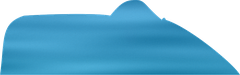
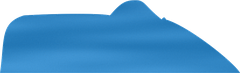
冰山更分散(宽80-130+纵向拉开+抖动减小)+极小幅轻摇(±0.7deg/3rpx,7s,错相);颜色模型:最新=橙,今天=红且随新内容增多红→蓝漂移(mix33/mix66),昨天=蓝逐日加深(blue1→blue3→deep);新增7色×3形slab资产

diff --git a/miniprogram/utils/sea.js b/miniprogram/utils/sea.js
@@ -107,60 +107,67 @@ function lerpHex (h1, h2, t) {
   return '#' + [0, 1, 2].map((i) => lerp(a[i], b[i], t).toString(16).padStart(2, '0')).join('')
 }
 // 雪山素材=用户定稿SVG的真实云slab（含纹理/颗粒）；今天=红，随天数沉淀到深蓝
-function slabFor (createdAt) {
-  const days = Math.floor((Date.now() - (createdAt || Date.now())) / 86400000)
-  if (days <= 0) return 'red'        // 今天最新=红slab
-  if (days <= 2) return 'blue1'      // 浅蓝
-  if (days <= 4) return 'blue3'      // 中蓝
-  return 'deep'                      // 5天+ 最深蓝
-}
-// seeded rng（同背景生成器 mjs）：每座山宽/高/包包形态稳定随机
-function mulberry (a) {
-  return function () {
-    a |= 0; a = (a + 0x6D2B79F5) | 0
-    let t = Math.imul(a ^ (a >>> 15), 1 | a)
-    t = (t + Math.imul(t ^ (t >>> 7), 61 | t)) ^ t
-    return ((t ^ (t >>> 14)) >>> 0) / 4294967296
+// 颜色模型：最新=橙；今天=红，随更新内容增多红→蓝漂移；昨天=蓝，逐日加深
+function slabColor (createdAt, newest, todayList, dayStart) {
+  const c = createdAt || 0
+  if (c === newest) return 'orange'
+  if (c >= dayStart) {
+    const newer = todayList.filter((x) => (x.createdAt || 0) > c).length
+    const t = newer / Math.max(1, todayList.length)
+    if (t < 0.25) return 'red'
+    if (t < 0.5) return 'mix33'
+    if (t < 0.75) return 'mix66'
+    return 'blue1'
   }
+  const days = Math.floor((dayStart - c) / 86400000) + 1
+  if (days <= 1) return 'blue1'
+  if (days <= 3) return 'blue3'
+  return 'deep'
 }
-// 一个年代=一屏宽；山在海上密排；小船与最新生成的山在一起
 function layoutMountains (icebergs, H, W, birthYear) {
   const list = (icebergs || []).slice()
   const stages = life.getStages()
   const eraOf = (b) => {
     const z = stageOfMemory(b, birthYear)
-    const i = stages.findIndex((s) => s.name === z.name || s.key === z.key)
+    const i = stages.findIndex((x) => x.name === z.name || x.key === z.key)
     return i < 0 ? stages.length : i
   }
   const groups = {}
   list.forEach((b) => { const e = eraOf(b); (groups[e] = groups[e] || []).push(b) })
-  // 每片海(含空海)都占一屏 → 新加的节点海左右滑能看到
   const worldWidth = Math.max(W, stages.length * W)
-  const labels = stages.map((s, ei) => ({ left: Math.round(ei * W + W / 2), name: s.name }))
+  const labels = stages.map((x, ei) => ({ left: Math.round(ei * W + W / 2), name: x.name }))
+  const d0 = new Date(); d0.setHours(0, 0, 0, 0)
+  const dayStart = d0.getTime()
+  const newest = list.reduce((m, b) => Math.max(m, b.createdAt || 0), 0)
+  const todayList = list.filter((b) => (b.createdAt || 0) >= dayStart)
   const mountains = []
-  stages.forEach((s, ei) => {
+  stages.forEach((x, ei) => {
     const g = (groups[ei] || []).sort((a, b) => (a.createdAt || 0) - (b.createdAt || 0))
     g.forEach((b, i) => {
       const rng = mulberry(hash(b._id || String(i)) + 7)
       const len = (b.text || '').length
-      const width = Math.round(90 + rng() * 70)                                        // 密排 90–160
-      const height = Math.round((50 + Math.min(130, len * 0.45)) * (0.85 + rng() * 0.4)) // 内容越多越高
+      const width = Math.round(80 + rng() * 50)                                       // 更小更分散
+      const height = Math.round((50 + Math.min(130, len * 0.45)) * (0.85 + rng() * 0.4))
       const variant = Math.floor(rng() * 3)
-      // 均匀铺开+轻微抖动，不堆挤
       const slot = (i + 0.5) / g.length
-      const x = ei * W + slot * (W - width) + (rng() - 0.5) * 30
-      const bottom = Math.round(H * (0.34 + ((i * 0.61 + 0.29) % 1) * 0.26))   // 往上靠，不挤底部
+      const xx = ei * W + slot * (W - width) + (rng() - 0.5) * 16
+      const bottom = Math.round(H * (0.28 + ((i * 0.61 + 0.29) % 1) * 0.36))          // 纵向拉开
       mountains.push({
-        id: b._id, left: Math.round(x), width, height, bottom,
+        id: b._id, left: Math.round(xx), width, height, bottom,
+        delay: ((i % 5) * 0.8).toFixed(1),
         createdAt: b.createdAt || 0,
-        src: '/images/ocean/slab_' + slabFor(b.createdAt) + '_v' + variant + '.png'
+        src: '/images/ocean/slab_' + slabColor(b.createdAt, newest, todayList, dayStart) + '_v' + variant + '.png'
       })
     })
   })
-  let newest = null
+  let newestM = null
   let minBottom = Infinity
-  mountains.forEach((m) => { if (!newest || m.createdAt > newest.createdAt) newest = m; if (m.bottom < minBottom) minBottom = m.bottom })
-  return { mountains, worldWidth, minBottom, newestLeft: newest ? newest.left : 0, newestWidth: newest ? newest.width : 0, labels }
+  mountains.forEach((m) => { if (!newestM || m.createdAt > newestM.createdAt) newestM = m; if (m.bottom < minBottom) minBottom = m.bottom })
+  const boatW = 75
+  let boatX = newestM ? Math.round(newestM.left + newestM.width / 2 - boatW / 2) : Math.round(W * 0.4)
+  boatX = Math.max(12, Math.min(worldWidth - boatW - 12, boatX))
+  const boatBottom = mountains.length ? Math.max(Math.round(H * 0.06), minBottom - 160) : Math.round(H * 0.30)
+  return { mountains, worldWidth, boatX, boatBottom, minBottom, newestLeft: newestM ? newestM.left : 0, newestWidth: newestM ? newestM.width : 0, labels }
 }
 
 module.exports = { buildWorld, centerOn, regionAt, stageOfMemory, layoutBergs, layoutMilestones, layoutMountains, windowSize, hash }
